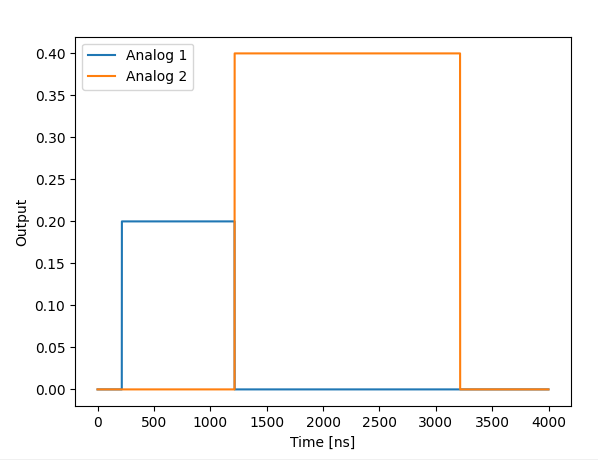
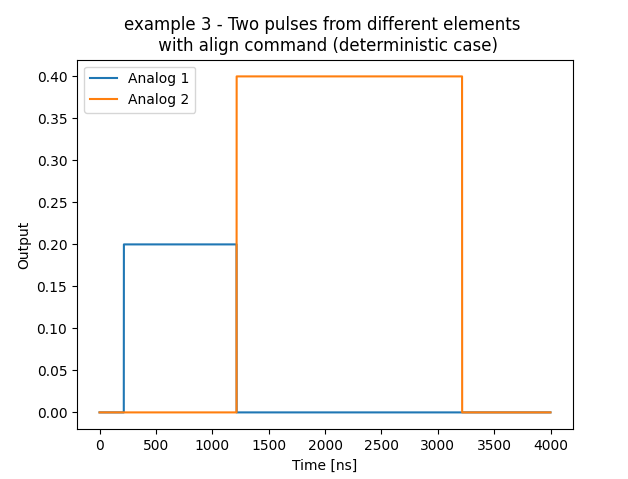
changing element names

Changed region(s): [[0.0301, 0.0304, 0.9632, 1.0]]

diff --git a/Tutorials/intro-to-timing/timing_in_qua.py b/Tutorials/intro-to-timing/timing_in_qua.py
@@ -7,28 +7,28 @@ from configuration import *
 qmm = QuantumMachinesManager()
 
 with program() as example1:
-    play("const1", "qe1")
-    play("const2", "qe2")
+    play("cw1", "qubit")
+    play("cw2", "resonator")
 
 with program() as example2:
-    play("const1", "qe1")
+    play("cw1", "qubit")
     wait(100)
-    play("const2", "qe2")
+    play("cw2", "resonator")
 
 with program() as example3:
-    play("const1", "qe1")
-    align("qe1", "qe2")
-    play("const2", "qe2")
+    play("cw1", "qubit")
+    align("qubit", "resonator")
+    play("cw2", "resonator")
 
 with program() as example4:
     t = Random()
-    play("const1", "qe1", duration=4 * t.rand_int(50))
-    align("qe1", "qe2")
-    play("const2", "qe2")
+    play("cw1", "qubit", duration=4 * t.rand_int(50))
+    align("qubit", "resonator")
+    play("cw2", "resonator")
 
 with program() as example5:
-    play("const1", "qe1")
-    play("const2", "qe1")
+    play("cw1", "qubit")
+    play("cw2", "qubit")
 
 # Simulate and plot 1st example
 job = qmm.simulate(config, example1, SimulationConfig(int(1000)))  # in clock cycles, 4 ns
@@ -37,14 +37,14 @@ samples = job.get_simulated_samples()
 plt.figure(1)
 
 plt.subplot(2, 1, 1)
-samples.con1.plot("qe1")
+samples.con1.plot("1")
 plt.xlabel("Time[ns]")
-plt.ylabel("qe1")
+plt.ylabel("qubit")
 plt.title("example 1 - Two pulses from different elements")
 plt.subplot(2, 1, 2)
-samples.con1.plot("qe2")
+samples.con1.plot("2")
 plt.xlabel("Time[ns]")
-plt.ylabel("qe2")
+plt.ylabel("resonator")
 
 plt.subplots_adjust(left=0.1, bottom=0.1, right=0.9, top=0.9, wspace=0.4, hspace=0.4)
 
@@ -56,14 +56,14 @@ samples = job.get_simulated_samples()
 plt.figure(2)
 
 plt.subplot(2, 1, 1)
-samples.con1.plot("qe1")
+samples.con1.plot("1")
 plt.xlabel("Time[ns]")
-plt.ylabel("qe1")
+plt.ylabel("qubit")
 plt.title("example 2 - Two pulses from different elements with wait command")
 plt.subplot(2, 1, 2)
-samples.con1.plot("qe2")
+samples.con1.plot("2")
 plt.xlabel("Time[ns]")
-plt.ylabel("qe2")
+plt.ylabel("resonator")
 
 plt.subplots_adjust(left=0.1, bottom=0.1, right=0.9, top=0.9, wspace=0.4, hspace=0.4)
 

diff --git a/Tutorials/intro-to-timing/configuration.py b/Tutorials/intro-to-timing/configuration.py
@@ -10,29 +10,29 @@ config = {
         },
     },
     "elements": {
-        "qe1": {
+        "qubit": {
             "singleInput": {"port": ("con1", 1)},
             "intermediate_frequency": 0e6,
             "operations": {
-                "const1": "constPulse1",
-                "const2": "constPulse2",
+                "cw1": "const_pulse1",
+                "cw2": "const_pulse2",
             },
         },
-        "qe2": {
+        "resonator": {
             "singleInput": {"port": ("con1", 2)},
             "intermediate_frequency": 0e6,
             "operations": {
-                "const2": "constPulse2",
+                "cw2": "const_pulse2",
             },
         },
     },
     "pulses": {
-        "constPulse1": {
+        "const_pulse1": {
             "operation": "control",
             "length": 1000,  # in ns
             "waveforms": {"single": "const_wf1"},
         },
-        "constPulse2": {
+        "const_pulse2": {
             "operation": "control",
             "length": 2000,  # in ns
             "waveforms": {"single": "const_wf2"},

diff --git a/Tutorials/intro-to-timing/test.py b/Tutorials/intro-to-timing/test.py
@@ -1,0 +1,29 @@
+from qm.QuantumMachinesManager import QuantumMachinesManager
+from qm.qua import *
+from qm import SimulationConfig
+import matplotlib.pyplot as plt
+from configuration import *
+
+qmm = QuantumMachinesManager()
+
+with program() as example1:
+    play("cw1", "qubit1")
+    play("cw2", "qe2")
+
+# Simulate and plot 1st example
+job = qmm.simulate(config, example1, SimulationConfig(int(1000)))  # in clock cycles, 4 ns
+samples = job.get_simulated_samples()
+
+plt.figure(1)
+
+plt.subplot(2, 1, 1)
+samples.con1.plot("qubit1")
+plt.xlabel("Time[ns]")
+plt.ylabel("qubit")
+
+plt.subplot(2, 1, 2)
+samples.con1.plot("qe2")
+plt.xlabel("Time[ns]")
+plt.ylabel("qe2")
+
+plt.subplots_adjust(left=0.1, bottom=0.1, right=0.9, top=0.9, wspace=0.4, hspace=0.4)

diff --git a/Tutorials/intro-to-timing/readme.md b/Tutorials/intro-to-timing/readme.md
@@ -11,17 +11,17 @@ The dependency can be summarized as follows:
 
 1. Each pulse is played immediately, unless specified otherwise or a calculation has to be done.
 
-##### note
-    It can be specified otherwise by either wait or align command.
+**Note**:
+>It can be specified otherwise by either wait or align command.
 
 2. Pulses applied to the same element are dependent on each other according to the order in which they appear in the program.
 
-##### note
-    Each element has its own thread, unless specified otherwise. If they do share thread they are dependent on each other as in case 2 above.
+**Note**:
+>Each element has its own thread, unless specified otherwise. If they do share thread they are dependent on each other as in case 2 above.
 
 
 ## Script
-The script presents five examples in order to demonstrate the timing in qua.
+The script presents five examples in order to demonstrate the timing in QUA.
 The examples and the figures of each example are described below:
 
 1. Two pulses from different elements.
@@ -33,8 +33,8 @@ The examples and the figures of each example are described below:
 3. Two pulses from different elements with align command (deterministic case).
 ![timing_in_qu](timing_example3.png "Two pulses from different elements with align command (deterministic case)")
 
-##### note
-    In the deterministic case above, the align command is translated to the wait command with the specific known wait time.
+**Note**:
+>In the deterministic case above, the align command is translated to the wait command with the specific known wait time.
 
 4. Two pulses from different elements with align command (non-deterministic case).
 ![timing_in_qu](timing_example4.png "Two pulses from different elements with align command (non-deterministic case")
@@ -42,9 +42,9 @@ The examples and the figures of each example are described below:
 If we play the two elements on the same plot and zoom in to the area where one element ends and the other starts we can see a gap between them.
 ![timing_in_qu](timing_example4b.png "Two pulses from different elements with align command (non-deterministic case")
 
-##### note
-    When playing two elements with align command in the non-deterministic case, there is a few cycles delay between the pulses.
-    Since in the non deterministic case it takes few cycles to pass the information from one thread to the other.
+**Note**:
+>When playing two elements with align command in the non-deterministic case, there is a few cycles delay between the pulses.
+Since in the non deterministic case it takes few cycles to pass the information from one thread to the other.
 
 5. Two pulses from the same element.
 ![timing_in_qu](timing_example5.png "Two pulses from the same element")
